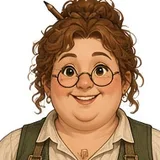
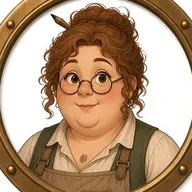
Town: Art's porthole portraits with talk / neutral / pleased expressions swapped per dialogue line

diff --git a/index.html b/index.html
@@ -432,9 +432,9 @@ nav#tabs button.on .tabi{transform:scale(1.12);filter:drop-shadow(0 0 6px rgba(2
 </div>
 <div id="modal" class="hidden"><div class="sheet" id="modalBody"></div></div>
 <div id="toasts"></div>
-<script>window.HD_BUILD='4532fc83';(function(){function chk(){try{var u=location.href.split('#')[0].split('?')[0];fetch(u+'?bust='+Date.now(),{cache:'no-store'}).then(function(r){return r.text()}).then(function(t){var m=t.match(/HD_BUILD='([0-9a-f]{8})'/);if(m&&m[1]!==window.HD_BUILD&&sessionStorage.getItem('hdReload')!==m[1]){sessionStorage.setItem('hdReload',m[1]);try{if(typeof save==='function')save();}catch(e){}location.replace(u+'?v='+m[1]+location.hash);}}).catch(function(){});}catch(e){}}chk();document.addEventListener('visibilitychange',function(){if(!document.hidden)chk();});window.addEventListener('pageshow',function(e){if(e.persisted)chk();});})();</script>
-<div id="hdBuild" style="position:fixed;left:4px;bottom:2px;font:10px system-ui,sans-serif;color:rgba(255,255,255,.45);pointer-events:none;z-index:99999">build 4532fc83</div>
-<script src="assets/vendor/three.min.js?v=4532fc83"></script>
+<script>window.HD_BUILD='66463669';(function(){function chk(){try{var u=location.href.split('#')[0].split('?')[0];fetch(u+'?bust='+Date.now(),{cache:'no-store'}).then(function(r){return r.text()}).then(function(t){var m=t.match(/HD_BUILD='([0-9a-f]{8})'/);if(m&&m[1]!==window.HD_BUILD&&sessionStorage.getItem('hdReload')!==m[1]){sessionStorage.setItem('hdReload',m[1]);try{if(typeof save==='function')save();}catch(e){}location.replace(u+'?v='+m[1]+location.hash);}}).catch(function(){});}catch(e){}}chk();document.addEventListener('visibilitychange',function(){if(!document.hidden)chk();});window.addEventListener('pageshow',function(e){if(e.persisted)chk();});})();</script>
+<div id="hdBuild" style="position:fixed;left:4px;bottom:2px;font:10px system-ui,sans-serif;color:rgba(255,255,255,.45);pointer-events:none;z-index:99999">build 66463669</div>
+<script src="assets/vendor/three.min.js?v=66463669"></script>
 <script>
 'use strict';
 
@@ -4945,8 +4945,10 @@ Town.folk = (() => {
     const port = d.querySelector('.tdPort'); for (let i = 0; i < 8; i++) { const a = i / 8 * 6.283, r = 48.5; const b = document.createElement('i'); b.style.left = 44 + Math.cos(a) * r - 2.5 + 'px'; b.style.top = 44 + Math.sin(a) * r - 2.5 + 'px'; port.appendChild(b); }
     d.addEventListener('pointerdown', (e) => e.stopPropagation()); d.addEventListener('click', (e) => { e.stopPropagation(); const b = e.target.closest('button'); if (b) return act(b.dataset.a); if (ST.page < ST.talk.o.say.length - 1) { ST.page++; show(); } });
     (document.getElementById('cityWrap') || document.body).appendChild(d); return (ST.dlg = d); }
-  function talk(n) { ST.talk = n; ST.page = 0; const d = el(); d.querySelector('.tdPort').style.backgroundImage = `url(assets/ui/npc/${n.id}.webp)`; d.querySelector('.tdName').innerHTML = `${n.o.name}<small>${n.o.role}</small>`; d.classList.remove('hidden'); show(); }
-  function show() { const d = ST.dlg, n = ST.talk, last = ST.page >= n.o.say.length - 1; d.querySelector('.tdWell p').textContent = n.o.say[ST.page]; d.querySelector('.tdPip').style.display = last ? 'none' : '';
+  function talk(n) { ST.talk = n; ST.page = 0; for (const ex of ['talk', 'neutral', 'pleased']) new Image().src = `assets/ui/npc/${n.id}_${ex}.webp`; const d = el(); d.querySelector('.tdPort').style.backgroundImage = `url(assets/ui/npc/${n.id}.webp)`; d.querySelector('.tdName').innerHTML = `${n.o.name}<small>${n.o.role}</small>`; d.classList.remove('hidden'); show(); }
+  // Art's porthole expressions (talk / neutral / pleased): talking while a line lands, then settle; '!' lines end pleased
+  function face(n, ex) { const p = ST.dlg.querySelector('.tdPort'); p.style.backgroundImage = `url(assets/ui/npc/${n.id}_${ex}.webp)`; p.dataset.face = ex; }
+  function show() { const d = ST.dlg, n = ST.talk, last = ST.page >= n.o.say.length - 1; d.querySelector('.tdWell p').textContent = n.o.say[ST.page]; face(n, 'talk'); clearTimeout(ST.faceT); ST.faceT = setTimeout(() => ST.talk === n && face(n, /!/.test(n.o.say[ST.page]) ? 'pleased' : 'neutral'), 1400); d.querySelector('.tdPip').style.display = last ? 'none' : '';
     d.querySelector('.tdBtns').innerHTML = last ? (n.o.acts || []).map(([t, a]) => `<button class="kBtn kGreen" data-a="${a}">${t}</button>`).join('') + '<button class="kBtn kCream" data-a="bye">Goodbye</button>' : ''; }
   function close() { ST.talk = null; if (ST.dlg) ST.dlg.classList.add('hidden'); }
   function act(a) { const n = ST.talk; if (a === 'bye') return close(); if (a === 'vault') { close(); if (typeof CharView !== 'undefined' && CharView.openVault) CharView.openVault(); return; }

diff --git a/src/town.js b/src/town.js
@@ -708,8 +708,10 @@ Town.folk = (() => {
     const port = d.querySelector('.tdPort'); for (let i = 0; i < 8; i++) { const a = i / 8 * 6.283, r = 48.5; const b = document.createElement('i'); b.style.left = 44 + Math.cos(a) * r - 2.5 + 'px'; b.style.top = 44 + Math.sin(a) * r - 2.5 + 'px'; port.appendChild(b); }
     d.addEventListener('pointerdown', (e) => e.stopPropagation()); d.addEventListener('click', (e) => { e.stopPropagation(); const b = e.target.closest('button'); if (b) return act(b.dataset.a); if (ST.page < ST.talk.o.say.length - 1) { ST.page++; show(); } });
     (document.getElementById('cityWrap') || document.body).appendChild(d); return (ST.dlg = d); }
-  function talk(n) { ST.talk = n; ST.page = 0; const d = el(); d.querySelector('.tdPort').style.backgroundImage = `url(assets/ui/npc/${n.id}.webp)`; d.querySelector('.tdName').innerHTML = `${n.o.name}<small>${n.o.role}</small>`; d.classList.remove('hidden'); show(); }
-  function show() { const d = ST.dlg, n = ST.talk, last = ST.page >= n.o.say.length - 1; d.querySelector('.tdWell p').textContent = n.o.say[ST.page]; d.querySelector('.tdPip').style.display = last ? 'none' : '';
+  function talk(n) { ST.talk = n; ST.page = 0; for (const ex of ['talk', 'neutral', 'pleased']) new Image().src = `assets/ui/npc/${n.id}_${ex}.webp`; const d = el(); d.querySelector('.tdPort').style.backgroundImage = `url(assets/ui/npc/${n.id}.webp)`; d.querySelector('.tdName').innerHTML = `${n.o.name}<small>${n.o.role}</small>`; d.classList.remove('hidden'); show(); }
+  // Art's porthole expressions (talk / neutral / pleased): talking while a line lands, then settle; '!' lines end pleased
+  function face(n, ex) { const p = ST.dlg.querySelector('.tdPort'); p.style.backgroundImage = `url(assets/ui/npc/${n.id}_${ex}.webp)`; p.dataset.face = ex; }
+  function show() { const d = ST.dlg, n = ST.talk, last = ST.page >= n.o.say.length - 1; d.querySelector('.tdWell p').textContent = n.o.say[ST.page]; face(n, 'talk'); clearTimeout(ST.faceT); ST.faceT = setTimeout(() => ST.talk === n && face(n, /!/.test(n.o.say[ST.page]) ? 'pleased' : 'neutral'), 1400); d.querySelector('.tdPip').style.display = last ? 'none' : '';
     d.querySelector('.tdBtns').innerHTML = last ? (n.o.acts || []).map(([t, a]) => `<button class="kBtn kGreen" data-a="${a}">${t}</button>`).join('') + '<button class="kBtn kCream" data-a="bye">Goodbye</button>' : ''; }
   function close() { ST.talk = null; if (ST.dlg) ST.dlg.classList.add('hidden'); }
   function act(a) { const n = ST.talk; if (a === 'bye') return close(); if (a === 'vault') { close(); if (typeof CharView !== 'undefined' && CharView.openVault) CharView.openVault(); return; }

diff --git a/test/townnpc.js b/test/townnpc.js
@@ -25,7 +25,7 @@ const URL = process.env.URL || 'http://localhost:8765/index.html', SHOT = proces
     const r = await p.evaluate((id) => { const n = Town.folk.ST.list.find((q) => q.id === id), a = M3.project(n.x, n.y, n.hgt * 0.85); return { a, r: Explore.tap(a[0], a[1]) }; }, id);
     await p.evaluate(() => { for (let k = 0; k < 600 && Town.folk.ST.walking; k++) Explore.tick(1 / 30); }); await p.waitForTimeout(1500);
     const d = await p.evaluate(() => { const e = document.getElementById('townDlg'); return e && { on: !e.classList.contains('hidden'), txt: e.querySelector('.tdWell p').textContent, img: e.querySelector('.tdPort').style.backgroundImage, name: e.querySelector('.tdName').textContent, who: Town.folk.ST.talk && Town.folk.ST.talk.id }; });
-    ok(r.r === 'npc' && d && d.on && d.who === id && d.img.includes(id), `tap ${id} (${r.r}): walks up, dialogue opens with the portrait (${d && d.name}: "${d && d.txt.slice(0, 40)}...")`);
+    ok(r.r === 'npc' && d && d.on && d.who === id && d.img.includes(id + '_'), `tap ${id} (${r.r}): walks up, dialogue opens with the expression portrait (${d && d.name}: "${d && d.txt.slice(0, 40)}...")`);
     await snap(`town-dlg-${id}`);
     if (!d || !d.on) continue;
     await p.click('#townDlg .tdWell p'); const last = await p.evaluate(() => [...document.querySelectorAll('#townDlg .tdBtns button')].map((b) => b.dataset.a));
